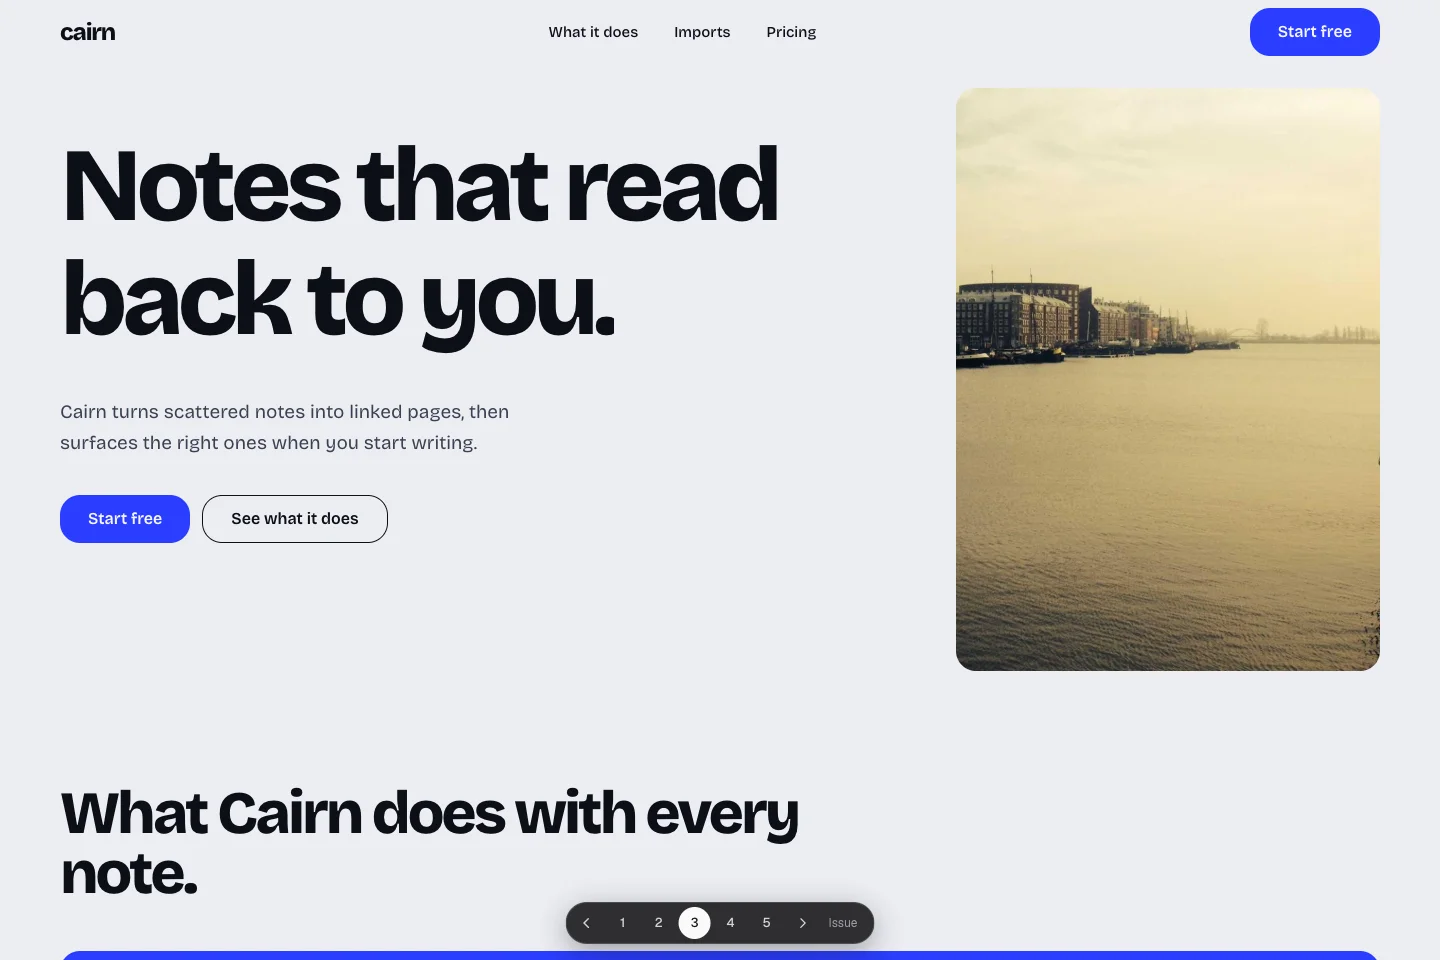
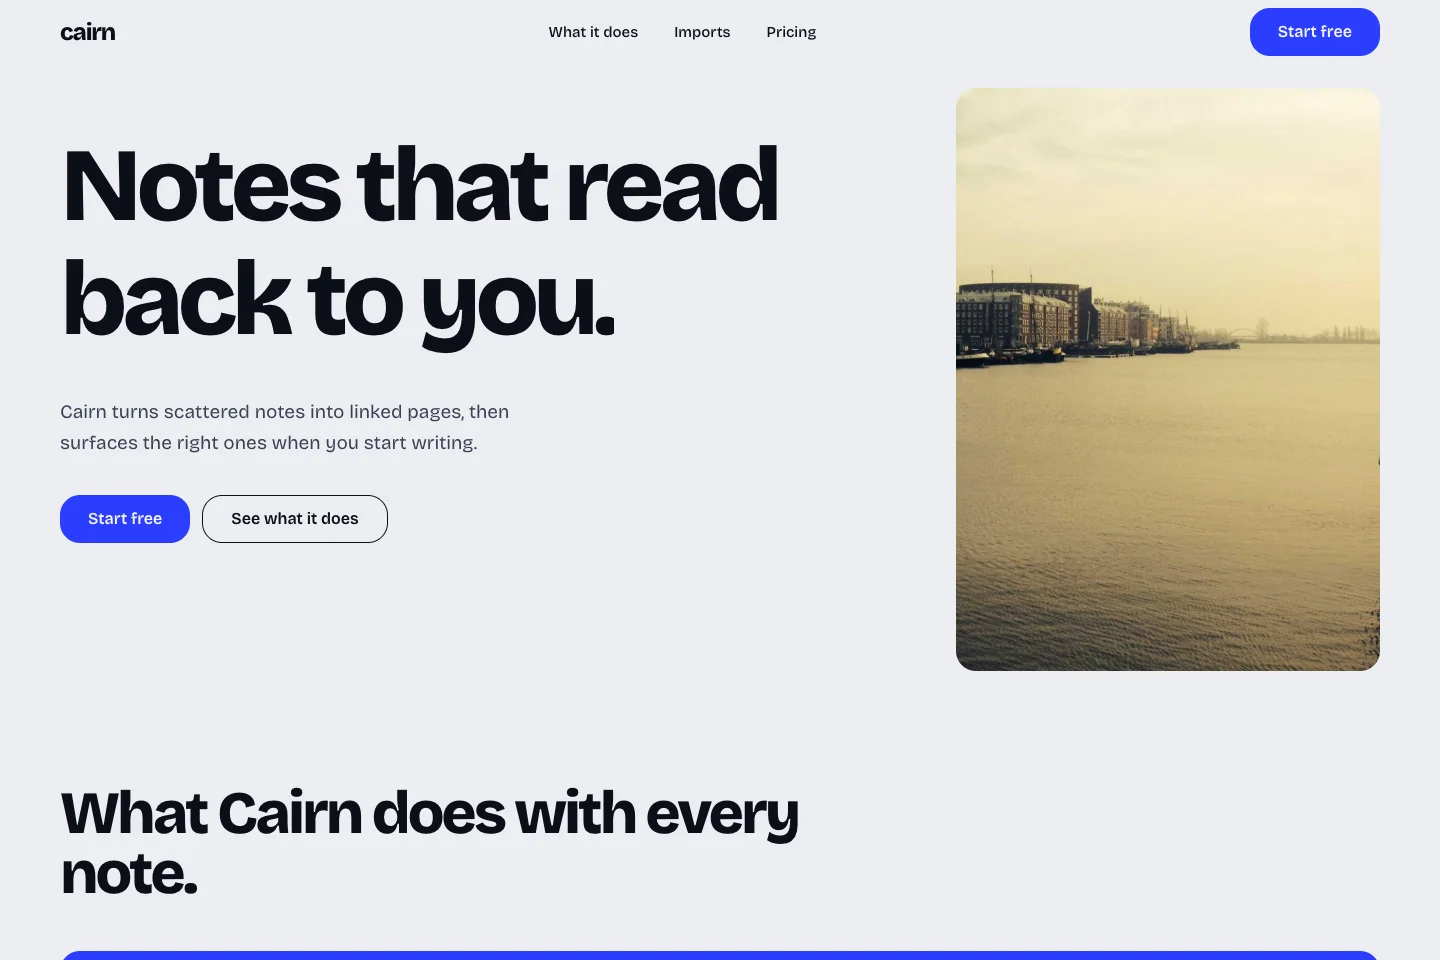
Remove local version switchers from Sonnet 5.5 variants
The gallery already renders its own iteration switcher on normal routes
and omits it on preview routes, so the source-level switchers duplicated
controls and linked outside the gallery. Recaptured previews without them.

Changed region(s): [[0.375, 0.9375, 0.625, 1.0]]

diff --git a/src/variants/with-taste-skill/sonnet-5.5/source/app/layout.tsx b/src/variants/with-taste-skill/sonnet-5.5/source/app/layout.tsx
@@ -1,7 +1,6 @@
 import type { Metadata } from "next";
 import { Geist, Geist_Mono } from "next/font/google";
 import "@/generated/scoped-variant-css/with-taste-skill/sonnet-5.5/source/app/globals.css";
-import { VersionSwitcher } from "./_components/version-switcher";
 
 const geistSans = Geist({
   variable: "--font-geist-sans",
@@ -23,7 +22,6 @@ export default function RootLayout({ children }: { children: React.ReactNode }) 
   return (
     <div className={`${geistSans.variable} ${geistMono.variable} antialiased`}>
       <div className="min-h-dvh">{children}</div>
-      <VersionSwitcher />
     </div>
   );
 }

diff --git a/src/variants/without-design-skill/sonnet-5.5/source/app/1/page.tsx b/src/variants/without-design-skill/sonnet-5.5/source/app/1/page.tsx
@@ -1,5 +1,4 @@
 import { Fraunces, Inter } from "next/font/google";
-import { VersionSwitcher } from "../_components/version-switcher";
 
 const serif = Fraunces({ subsets: ["latin"] });
 const sans = Inter({ subsets: ["latin"] });
@@ -76,7 +75,6 @@ export default function Page() {
       <footer className="mx-auto mt-28 max-w-5xl border-t border-[#d9ceb5] px-6 py-10 pb-24 text-sm text-[#8a7a5c]">
         &copy; Engram. Written by hand, remembered by machine.
       </footer>
-      <VersionSwitcher />
     </main>
   );
 }

diff --git a/src/variants/with-design-skill/sonnet-5.5/source/app/layout.tsx b/src/variants/with-design-skill/sonnet-5.5/source/app/layout.tsx
@@ -1,5 +1,4 @@
 import type { Metadata } from "next";
-import Switcher from "./components/Switcher";
 import "@/generated/scoped-variant-css/with-design-skill/sonnet-5.5/source/app/globals.css";
 
 export const metadata: Metadata = {
@@ -10,11 +9,6 @@ export const metadata: Metadata = {
 
 export default function RootLayout({ children }: { children: React.ReactNode }) {
   return (
-    <div>
-      <div>
-        {children}
-        <Switcher />
-      </div>
-    </div>
+    <div>{children}</div>
   );
 }

diff --git a/src/variants/without-design-skill/sonnet-5.5/source/app/4/page.tsx b/src/variants/without-design-skill/sonnet-5.5/source/app/4/page.tsx
@@ -1,5 +1,4 @@
 import { Space_Grotesk } from "next/font/google";
-import { VersionSwitcher } from "../_components/version-switcher";
 
 const grotesk = Space_Grotesk({ subsets: ["latin"], weight: ["500", "700"] });
 
@@ -48,7 +47,6 @@ export default function Page() {
           Forgetting is a bug. <span className="underline decoration-8">We fixed it.</span>
         </p>
       </section>
-      <VersionSwitcher />
     </main>
   );
 }

diff --git a/src/variants/without-design-skill/sonnet-5.5/source/app/3/page.tsx b/src/variants/without-design-skill/sonnet-5.5/source/app/3/page.tsx
@@ -1,5 +1,4 @@
 import { Plus_Jakarta_Sans } from "next/font/google";
-import { VersionSwitcher } from "../_components/version-switcher";
 
 const jakarta = Plus_Jakarta_Sans({ subsets: ["latin"] });
 
@@ -52,7 +51,6 @@ export default function Page() {
         </div>
       </section>
       <footer className="px-6 py-16 pb-24 text-center text-sm text-[#8a87a3]">&copy; Engram</footer>
-      <VersionSwitcher />
     </main>
   );
 }

diff --git a/src/variants/without-design-skill/sonnet-5.5/source/app/2/page.tsx b/src/variants/without-design-skill/sonnet-5.5/source/app/2/page.tsx
@@ -1,5 +1,4 @@
 import { JetBrains_Mono } from "next/font/google";
-import { VersionSwitcher } from "../_components/version-switcher";
 
 const mono = JetBrains_Mono({ subsets: ["latin"] });
 
@@ -83,7 +82,6 @@ $ `}<span className="animate-pulse">█</span>
           <p><span className="text-[#ffbd2e]">v2.2</span> + vim keybindings, obviously</p>
         </div>
       </section>
-      <VersionSwitcher />
     </main>
   );
 }

diff --git a/src/variants/without-design-skill/sonnet-5.5/source/app/5/page.tsx b/src/variants/without-design-skill/sonnet-5.5/source/app/5/page.tsx
@@ -1,5 +1,4 @@
 import { Sora } from "next/font/google";
-import { VersionSwitcher } from "../_components/version-switcher";
 
 const sora = Sora({ subsets: ["latin"] });
 
@@ -63,7 +62,6 @@ export default function Page() {
           </div>
         ))}
       </section>
-      <VersionSwitcher />
     </main>
   );
 }
